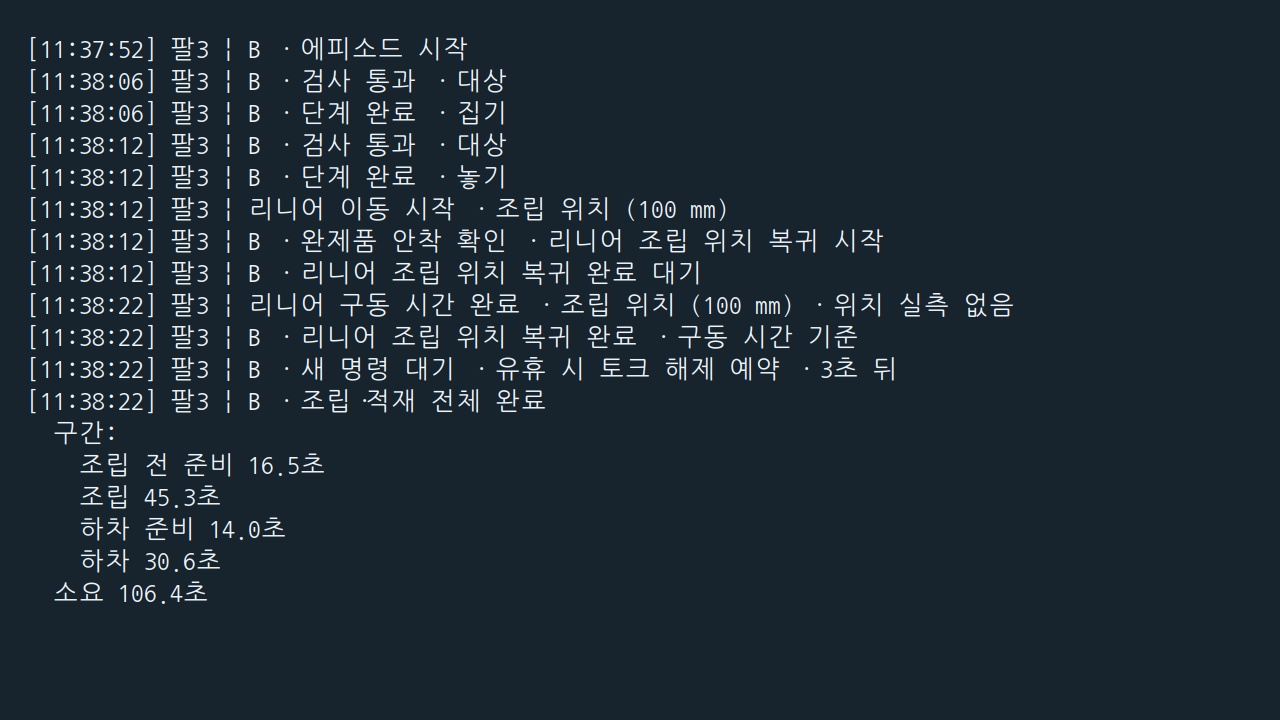
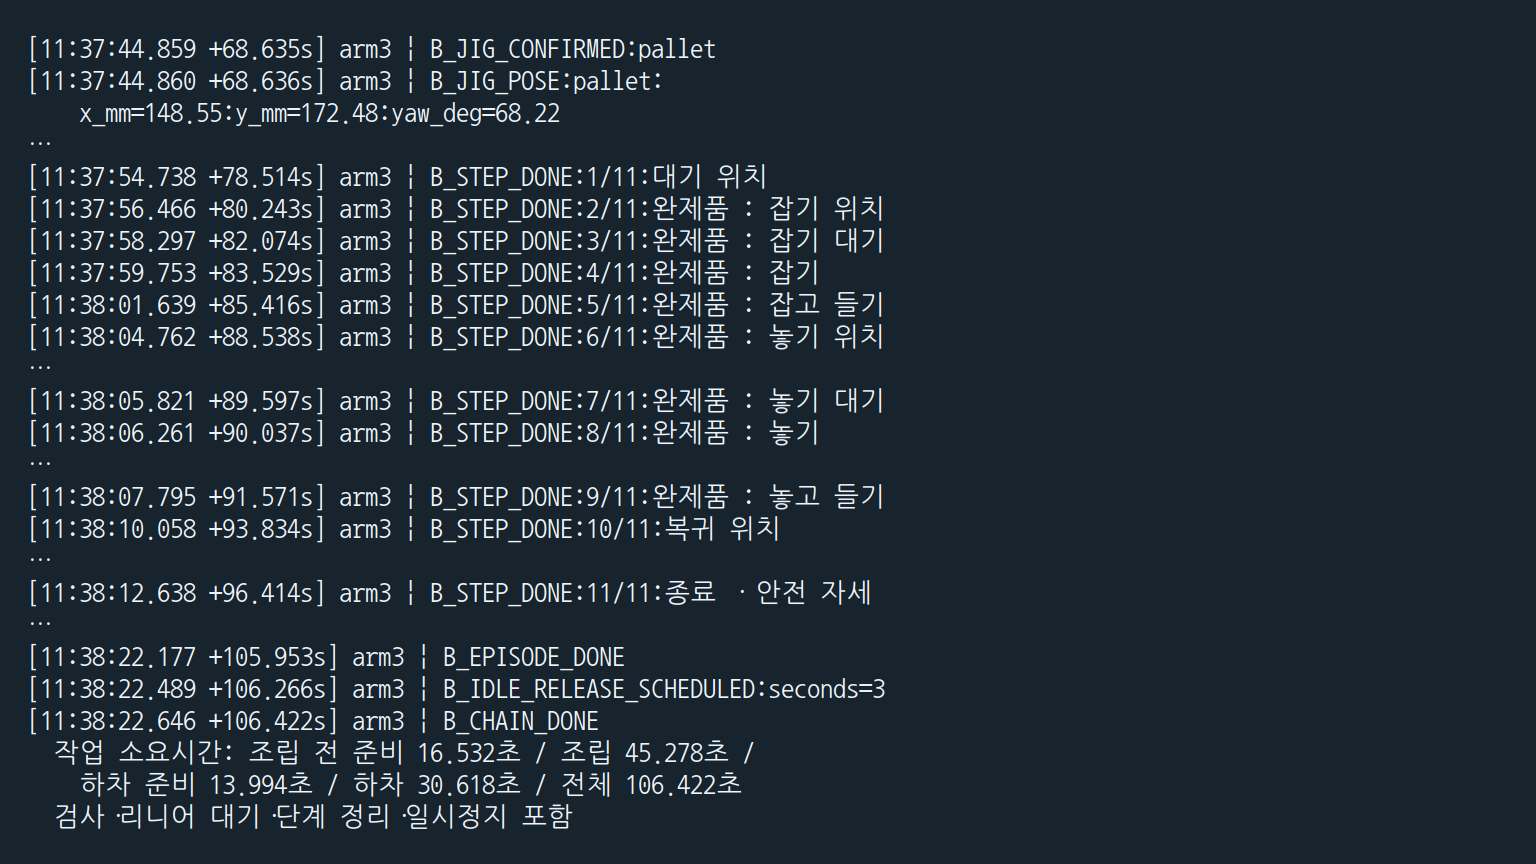
Include measured pallet pose and timestamped motion steps in terminal excerpt

Changed region(s): [[0.0, 0.0306, 0.7812, 0.9778]]

diff --git a/docs/index.html b/docs/index.html
@@ -249,13 +249,13 @@
 <div class="ds-body">
 <div class="study-pair">
 <figure><a class="image-open" href="assets/images/so101-wpf-demo.png" aria-label="WPF 관제 데모 화면 크게 보기"><img src="assets/images/so101-wpf-demo.png" width="1920" height="1080" loading="lazy" alt="조립·적재 명령 버튼과 팔별 운전 상태, 최근 명령의 완료·실패 이력"></a><figcaption>WPF 관제</figcaption></figure>
-<figure><a class="image-open" href="assets/images/so101-work-watch.png?v=full-run" aria-label="work_watch 터미널 로그 크게 보기"><img src="assets/images/so101-work-watch.png?v=full-run" width="1280" height="720" loading="lazy" alt="B 조립·적재 완료 로그. 조립 전 준비 16.5초, 조립 45.3초, 하차 준비 14.0초, 하차 30.6초로 총 106.4초 소요"></a><figcaption>work_watch 터미널</figcaption></figure>
+<figure><a class="image-open" href="assets/images/so101-work-watch.png?v=pose-time" aria-label="work_watch 터미널 로그 크게 보기"><img src="assets/images/so101-work-watch.png?v=pose-time" width="1536" height="864" loading="lazy" alt="팔레트 X 148.55 mm, Y 172.48 mm, 회전각 68.22도와 B 조립·적재 완료 로그. 조립 전 준비 16.5초, 조립 45.3초, 하차 준비 14.0초, 하차 30.6초로 총 106.4초 소요"></a><figcaption>work_watch 터미널</figcaption></figure>
 </div>
 <ol class="flow row3">
 <li><span>01</span><h4>작업 요청 · Goal</h4><p>‘A 조립 → 적재’를 선택하면 WPF가 HTTPS로 Ubuntu 중계에 요청. 중계가 ROS 2 액션으로 Pi에 <code>BUILD_LOAD_A</code> 전달</p></li>
 <li><span>02</span><h4>진행 상태 · Feedback</h4><p>조립이 끝나면 Pi가 <code>BUILD_DONE</code> 반환. 적재가 이어지는 동안 중계가 WSS로 관제 화면에 상태 전달</p></li>
 <li><span>03</span><h4>최종 결과 · Result</h4><p>성공 결과와 <code>IDLE</code> 수신 후 완료 표시. 재연결 시 같은 요청 ID로 결과를 조회해 중복 실행 방지</p></li>
-</ol><div class="project-actions"><a class="text-link" href="assets/logs/work-watch-b.txt" target="_blank" rel="noopener">터미널 로그 전문 ↗</a></div></div></section>
+</ol><div class="project-actions"><a class="text-link" href="assets/logs/work-watch-b.txt?v=pose-time" target="_blank" rel="noopener">터미널 로그 전문 ↗</a></div></div></section>
 
 <nav aria-label="다른 프로젝트" class="pager"><a href="#travel"><small>06</small><b>Travel Visualizer</b></a><a class="next" href="#robot"><small>02</small><b>원격 물품 <x-nw>회수·운반</x-nw> 로봇</b></a></nav>
 </article><article aria-labelledby="dv-robot" class="dv" data-id="robot" hidden="">
